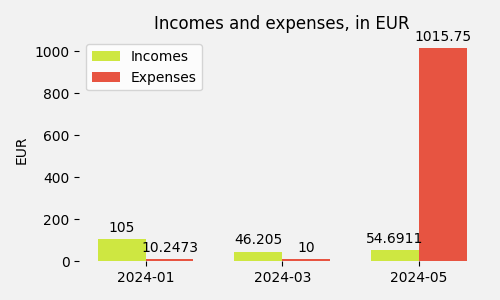
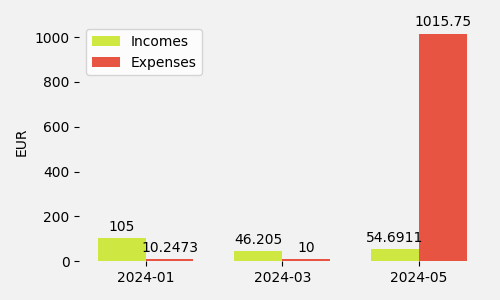
add toggle switch

diff --git a/budget_project/templates/webbudget/dashboard.html b/budget_project/templates/webbudget/dashboard.html
@@ -26,27 +26,45 @@
   </div>
   
   <div class="main-flex-container">
-    <div class="flex-container weight-1-flex-container" id="box4">
+    <div class="flex-container weight-1-flex-container" >
       <div style="float: right; padding: 0px 0px 10px 20px;">
-        <button class="button-table" onclick="removeElement4()">Hide</button>
+        <!-- <button class="button-table" onclick="removeElement4()">Hide</button>
+        <button class="button-table" onclick="resetElement4()">Show</button> -->
+        <label class="switch">
+          <input type="checkbox">
+          <span class="slider round" onclick="resetElement4()"></span>
+        </label>
       </div>
-      <img src="/media/{{username}}_incomes_expenses.png"/>
+      <p class="main-title">Incomes and expenses by months</p>
+      <div id="box4">
+        <img src="/media/{{username}}_incomes_expenses.png"/>
+      </div>  
     </div>
   </div>
 
   <div class="main-flex-container">
-    <div class="flex-container weight-1-flex-container" id="box1">
+    <div class="flex-container weight-1-flex-container">
       <div style="float: right; padding: 0px 0px 0px 20px;">
-        <button class="button-table" onclick="removeElement1()">Hide</button>
+        <label class="switch">
+          <input type="checkbox">
+          <span class="slider round" onclick="resetElement1()"></span>
+        </label>
+        <!-- <button class="button-table" onclick="removeElement1()">Hide</button> -->
       </div>
-      {% include "includes/incomes_expences_table.html" %}
+      <div id="box1">
+        {% include "includes/incomes_expences_table.html" %}
+      </div>
     </div>
     
-    <div class="flex-container weight-1-flex-container" id="box2">
+    <div class="flex-container weight-1-flex-container">
       <div style="float: right; padding: 0px 0px 10px 20px;">
-        <button class="button-table" onclick="removeElement2()">Hide</button>
+        <label class="switch">
+          <input type="checkbox">
+          <span class="slider round" onclick="resetElement2()"></span>
+        </label>
+        <!-- <button class="button-table" onclick="removeElement2()">Hide</button> -->
       </div>
-      <div style="align-items: center;">
+      <div style="align-items: center;" id="box2">
         <div>
           <img src="/media/{{username}}_income_categories.png"/>
         </div>
@@ -56,12 +74,18 @@
       </div>
     </div>
     
-    <div class="flex-container weight-1-flex-container" id="box3">
+    <div class="flex-container weight-1-flex-container">
       <div>
         <div style="float: right; padding: 0px 0px 0px 20px;">
-          <button class="button-table" onclick="resetElement()">Show All</button>
+          <label class="switch">
+            <input type="checkbox">
+            <span class="slider round" onclick="resetElement3()"></span>
+          </label>
+          <!-- <button class="button-table" onclick="resetElement()">Show All</button> -->
         </div>
-        {% include "includes/categories_table.html" %}
+        <div id="box3">
+          {% include "includes/categories_table.html" %}
+        </div>
       </div>
     </div>
   </div>
@@ -74,14 +98,39 @@
     function removeElement2() {
         document.getElementById("box2").style.display = "none";
     }
-    function removeElement4() {
-        document.getElementById("box4").style.display = "none";
-    }
+    // function removeElement4() {
+    //     document.getElementById("box4").style.display = "none";
+    // }
     
     function resetElement() {
         document.getElementById("box1").style.display = "block";
         document.getElementById("box2").style.display = "block";
         document.getElementById("box4").style.display = "block";
+    }
+
+    function resetElement1() {
+      var x = document.getElementById("box1");
+        if (x.style.display === "none") {
+          x.style.display = "block";
+        } else {
+          x.style.display = "none";
+        }
+    }
+    function resetElement2() {
+      var x = document.getElementById("box2");
+        if (x.style.display === "none") {
+          x.style.display = "block";
+        } else {
+          x.style.display = "none";
+        }
+    }
+    function resetElement4() {
+      var x = document.getElementById("box4");
+        if (x.style.display === "none") {
+          x.style.display = "block";
+        } else {
+          x.style.display = "none";
+        }
     }
   </script> 
 {% endblock %}

diff --git a/budget_project/templates/base.html b/budget_project/templates/base.html
@@ -265,6 +265,68 @@
         background-color: #f2f2f2;
         padding: 20px 20px 20px 20px;
       }
+      /* The switch - the box around the slider */
+      .switch {
+        position: relative;
+        display: inline-block;
+        width: 60px;
+        height: 34px;
+      }
+
+      /* Hide default HTML checkbox */
+      .switch input {
+        opacity: 0;
+        width: 0;
+        height: 0;
+      }
+
+      /* The slider */
+      .slider {
+        position: absolute;
+        cursor: pointer;
+        top: 0;
+        left: 0;
+        right: 0;
+        bottom: 0;
+        background-color: #CEE741;
+        -webkit-transition: .4s;
+        transition: .4s;
+      }
+
+      .slider:before {
+        position: absolute;
+        content: "";
+        height: 26px;
+        width: 26px;
+        left: 4px;
+        bottom: 4px;
+        background-color: white;
+        -webkit-transition: .4s;
+        transition: .4s;
+      }
+
+      input:checked + .slider {
+        background-color: #f2f2f2;
+      }
+
+      input:focus + .slider {
+        box-shadow: 0 1 2px #CEE741;
+      }
+
+      input:checked + .slider:before {
+        -webkit-transform: translateX(26px);
+        -ms-transform: translateX(26px);
+        transform: translateX(26px);
+      }
+
+      /* Rounded sliders */
+      .slider.round {
+        border-radius: 34px;
+      }
+
+      .slider.round:before {
+        border-radius: 50%;
+      }
     </style>
   </head>
   <body>

diff --git a/budget_project/webbudget/graphic_creator.py b/budget_project/webbudget/graphic_creator.py
@@ -237,7 +237,7 @@ def incomes_and_expenses_grafic(incomes_object_dictinaries, expenses_object_dict
     ax.set_facecolor('#f2f2f2')
     # Add some text for labels, title and custom x-axis tick labels, etc.
     ax.set_ylabel('{}'.format(request.user.usermaincurrency.main_currency.name))
-    ax.set_title('Incomes and expenses, in {}'.format(request.user.usermaincurrency.main_currency.name))
+    # ax.set_title('Incomes and expenses, in {}'.format(request.user.usermaincurrency.main_currency.name))
     ax.set_xticks(x, xs_dates)
     ax.legend()
     for spine in plt.gca().spines.values():
